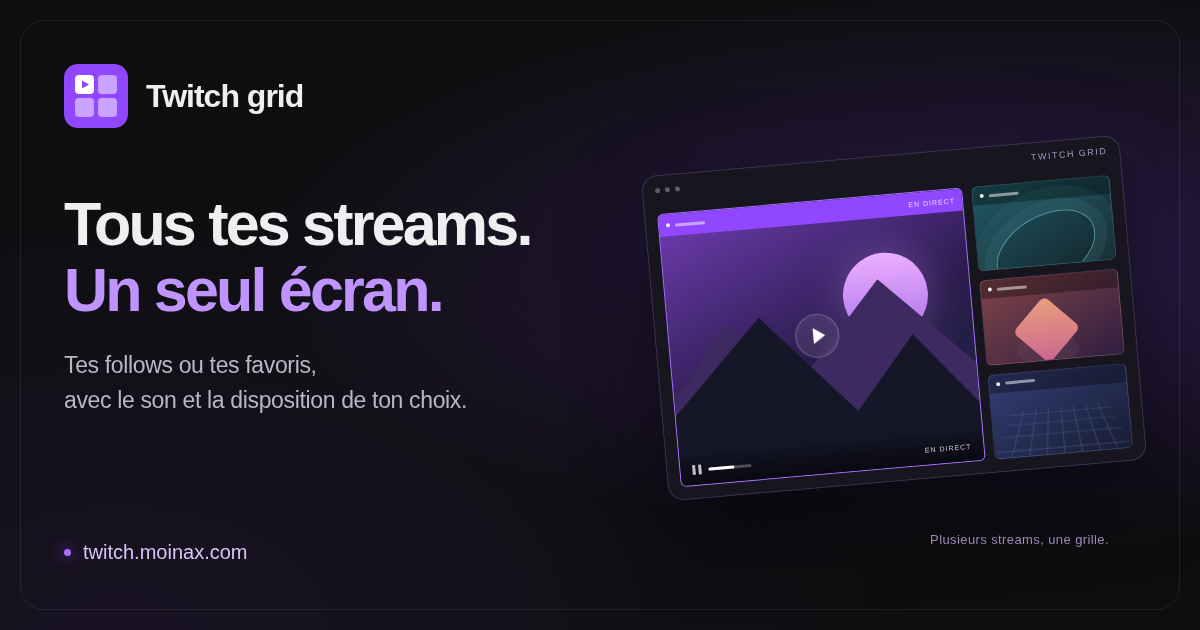
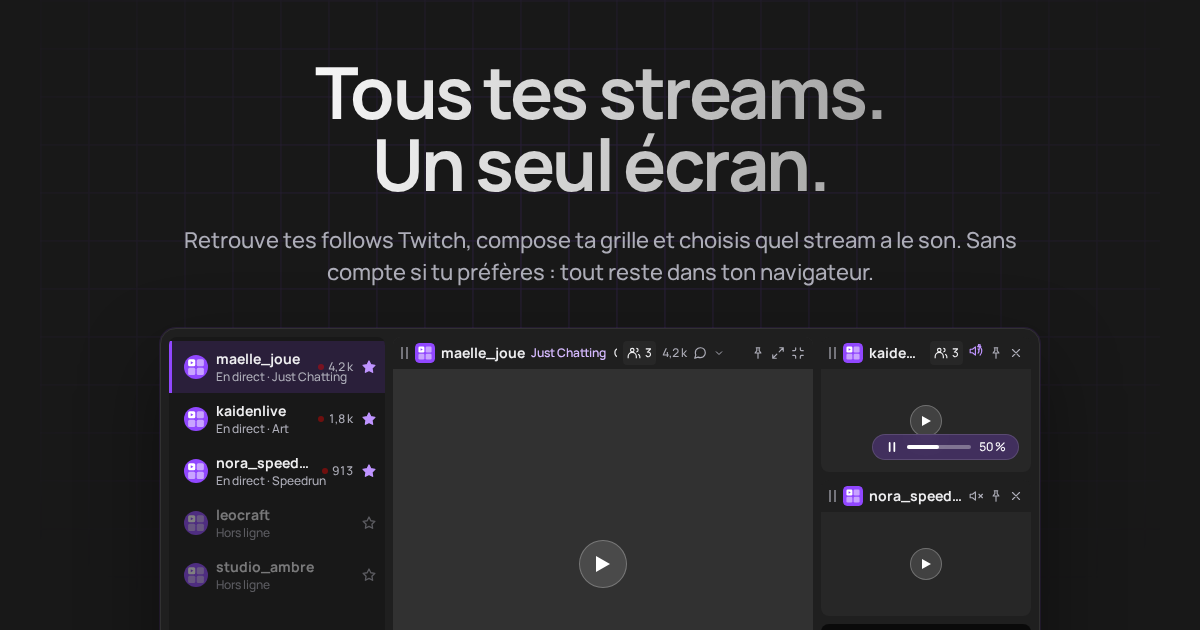
Render the share card from the real landing hero
The share image was a hand drawn mock in Arial over radial gradients,
unrelated to the current interface. The render script now starts the
local server, opens the landing, forces the hero and lays it out for
1200 × 630 before the screenshot, so the card carries the real copy,
font, grid pattern and app mock and follows future hero changes.
The separate share-card.html template is gone. The image alt text and
the README describe the new flow.

diff --git a/index.html b/index.html
@@ -18,12 +18,12 @@
 <meta property="og:image:type" content="image/png">
 <meta property="og:image:width" content="1200">
 <meta property="og:image:height" content="630">
-<meta property="og:image:alt" content="Twitch grid. Tous tes streams. Un seul écran. Une grille de lecteurs sur fond violet.">
+<meta property="og:image:alt" content="Twitch grid. Tous tes streams. Un seul écran. La liste des follows à côté d’une grille de lecteurs.">
 <meta name="twitter:card" content="summary_large_image">
 <meta name="twitter:title" content="Twitch grid">
 <meta name="twitter:description" content="Regarde plusieurs streams Twitch sur un seul écran. Retrouve tes follows ou tes favoris, organise ta grille et choisis le son.">
 <meta name="twitter:image" content="https://twitch.moinax.com/assets/share-card.png">
-<meta name="twitter:image:alt" content="Twitch grid. Tous tes streams. Un seul écran. Une grille de lecteurs sur fond violet.">
+<meta name="twitter:image:alt" content="Twitch grid. Tous tes streams. Un seul écran. La liste des follows à côté d’une grille de lecteurs.">
 <link rel="icon" type="image/svg+xml" href="favicon.svg">
 <link rel="preconnect" href="https://fonts.gstatic.com" crossorigin>
 <link rel="stylesheet" href="https://fonts.googleapis.com/css2?family=Manrope:wght@500;600;700&display=swap">

diff --git a/README.md b/README.md
@@ -104,13 +104,13 @@ Le projet comprend les fichiers statiques et une fonction Node.js pour la recher
 
 ## Image de partage
 
-Les balises Open Graph et Twitter utilisent une image PNG de 1200 × 630 pixels. Pour modifier la carte, édite `scripts/share-card.html`, puis génère l’image avec :
+Les balises Open Graph et Twitter utilisent une image PNG de 1200 × 630 pixels. La carte est une capture du haut de la landing, mise en page pour ce format par `scripts/render-share-image.cjs`. Après un changement du hero ou de la maquette, régénère l’image avec :
 
 ```sh
 pnpm og:generate
 ```
 
-La commande utilise Chromium de Playwright et écrit `assets/share-card.png`. L’image est versionnée et servie directement, sans génération lors du déploiement.
+La commande lance le serveur local, utilise Chromium de Playwright et écrit `assets/share-card.png`. L’image est versionnée et servie directement, sans génération lors du déploiement.
 
 ## Vérifier
 
